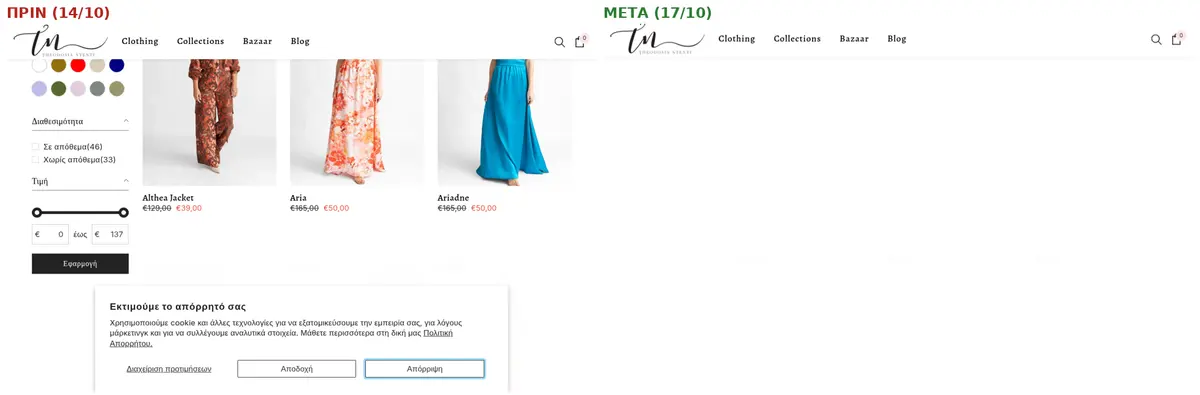
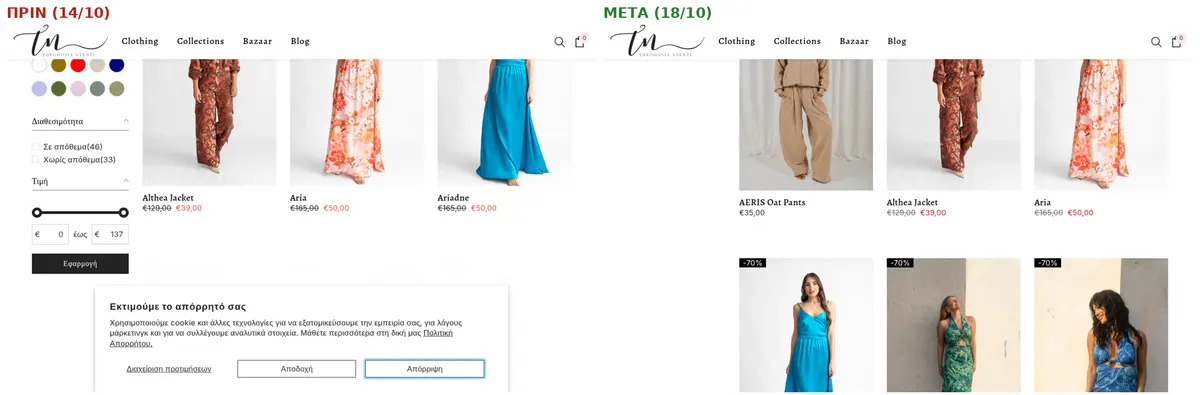
Replace the sale-price comparison with the 18 October after shot
The previous after half was empty. The contrast caption stays 3.66:1 before and 6.15:1 after.

diff --git a/src/app/case-studies/theodosiantenti/page.tsx b/src/app/case-studies/theodosiantenti/page.tsx
@@ -90,6 +90,7 @@ const figures: {
   imageClassName?: string;
   before: React.ReactNode;
   after: React.ReactNode;
+  afterDate?: string;
 }[] = [
   {
     title: "Skip link",
@@ -114,8 +115,9 @@ const figures: {
     width: 1200,
     height: 395,
     widths: [720, 1200],
-    alt: "Before and after of sale prices on a collection page. Before, 14 October: prices such as €39.00 are bright red. After, 17 October: the same kind of sale price is a darker red.",
+    alt: "Before and after of sale prices on a collection page. The left half, labeled 14 October, shows bright red sale prices such as €39.00 beside struck-through prices. The right half, labeled 18 October, shows the product grid with those sale prices in a darker red.",
     before: "The sale price colour #e95144 measured 3.66:1.",
+    afterDate: "18 Oct 2026",
     after: "The sale price colour #b3261e measures 6.15:1 against #f8f8f8.",
   },
   {
@@ -439,7 +441,7 @@ export default function TheodosiaCaseStudyPage() {
                         </p>
                         <p>
                           <span className="font-semibold text-white">
-                            After, 17 Oct 2026.{" "}
+                            After, {figure.afterDate ?? "17 Oct 2026"}.{" "}
                           </span>
                           {figure.after}
                         </p>
